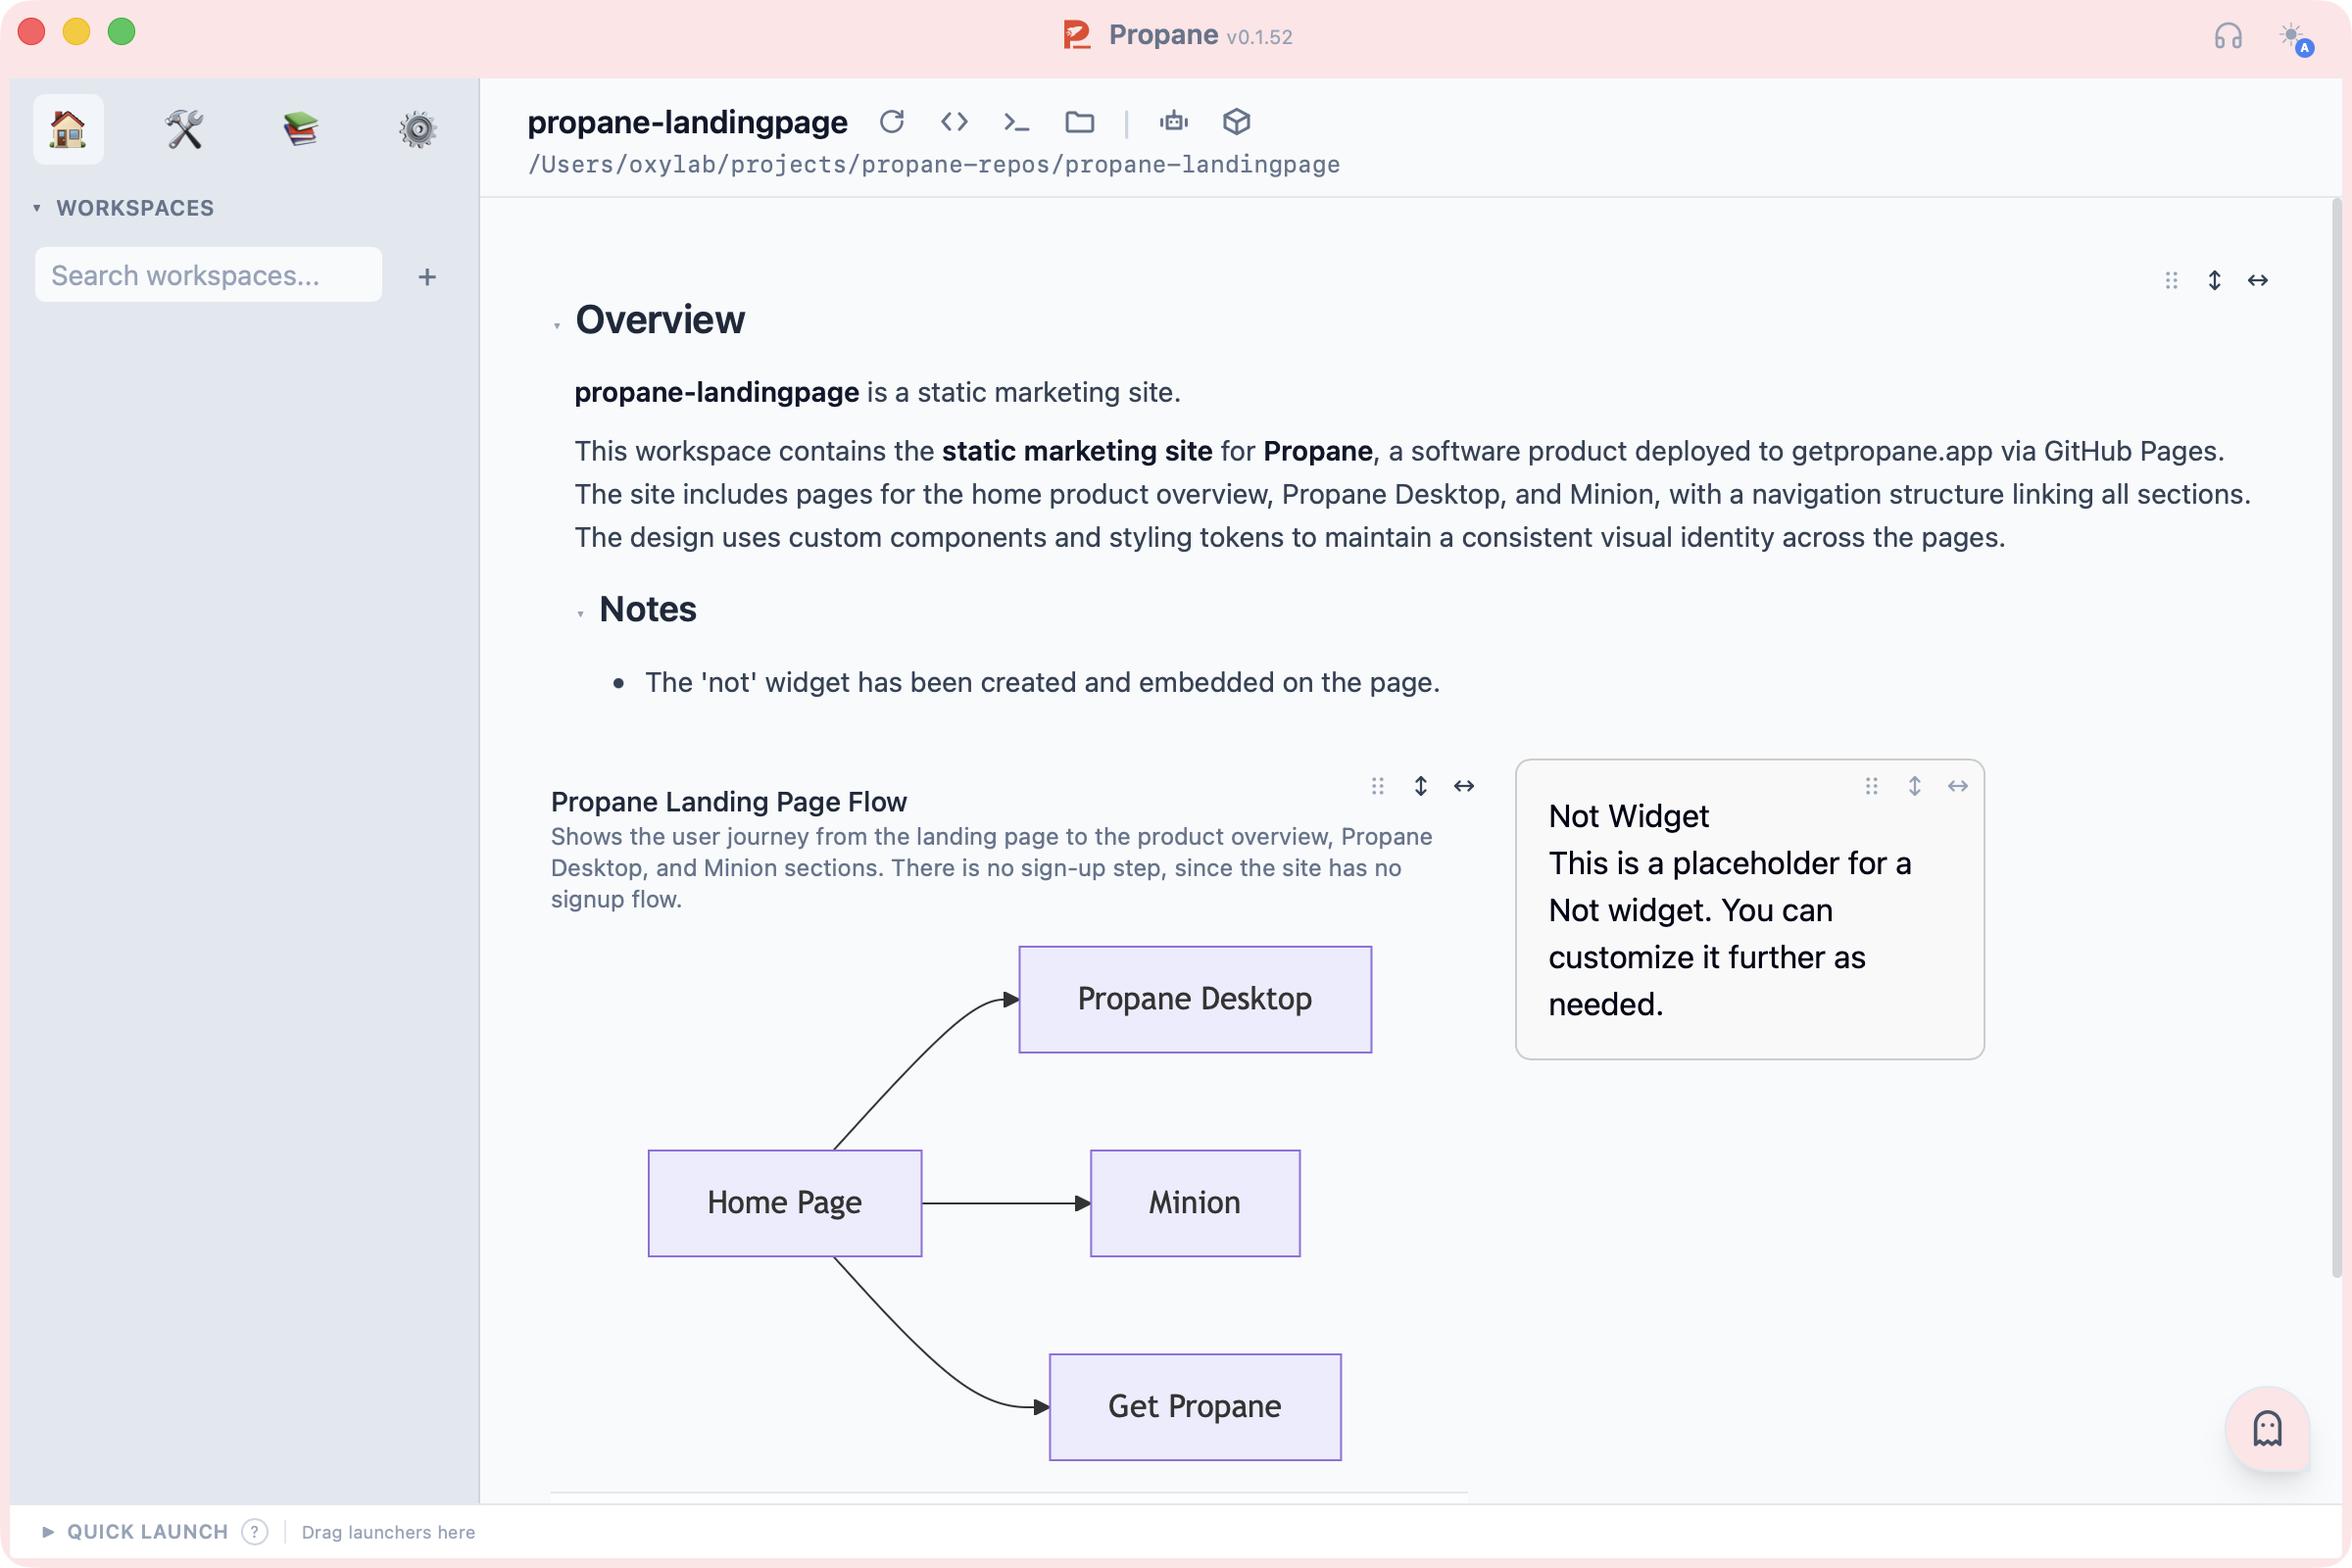
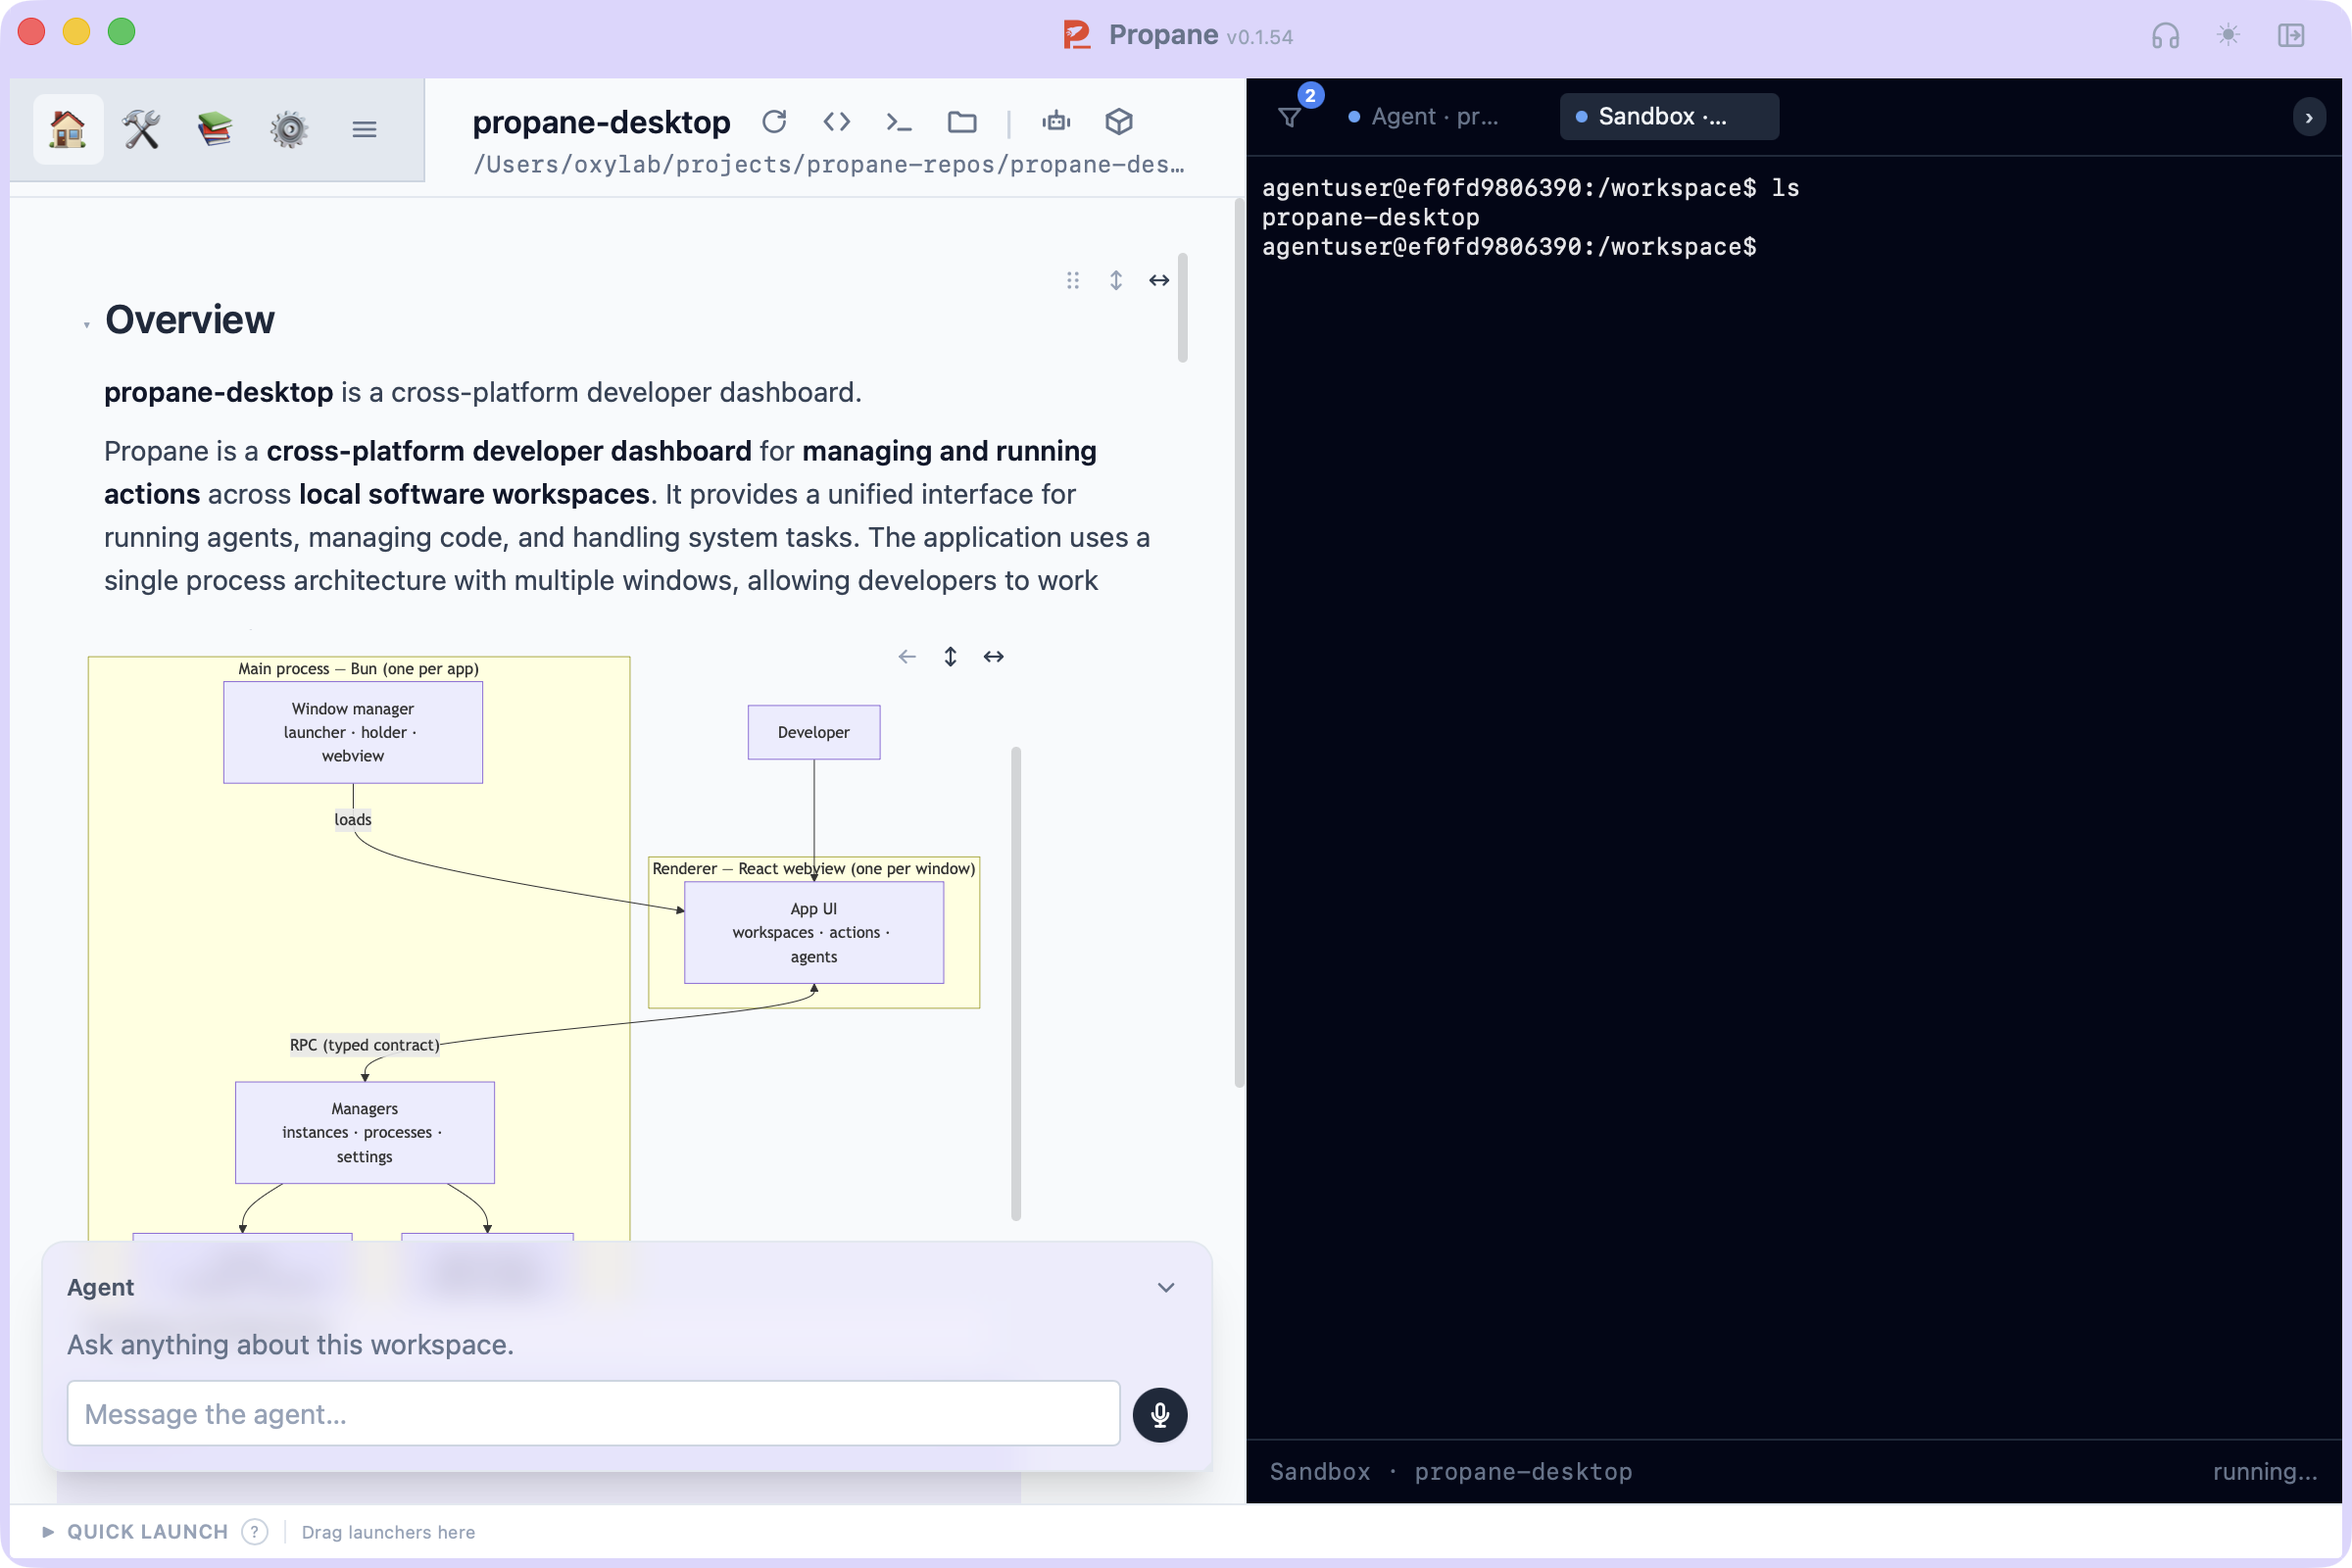
Update README pricing to suggested Free/Pro/Studio/Enterprise tiers
Replace the old Community/Pro/Studio/Enterprise model with the new prices:
Free $0 personal use, Pro $30/mo (300M token credits, private kbase
registry, publish apps, signed builds), Studio $255/mo for 25 users
($10/user), Enterprise $55/user/mo with own cloud license. Refresh the
feature breakdown, comparison table and open questions, and label the
model as suggested.

diff --git a/README.md b/README.md
@@ -16,80 +16,76 @@ Every page links to the others from the top nav and the footer. The pricing
 page was removed from the public site while the model below is still being
 decided.
 
-## Proposed pricing model (not published)
+## Suggested pricing model (not published)
 
-> The pricing page and all prices were **removed from the public pages** while
-the numbers are still being decided. This is the working model.
+> **Suggested.** The tiers below are an inferred working model, not a final
+> price list. The pricing page and all prices were **removed from the public
+> pages** while the numbers are still being decided.
 
 ### Tiers
 
 | Tier | Price | For |
 |------|-------|-----|
-| Community | $0 | Up to three computers and five devices, with a monthly hosted-token budget |
-| Pro | $15/mo | One person who wants Propane everywhere |
-| Studio | $29/user/mo | Teams that build tools together |
-| Enterprise | Custom | Organisations that run Propane themselves |
+| Free | $0 | Personal use |
+| Pro | $30/mo | One person who wants to publish and ship apps |
+| Studio | $255/mo · 25 users ($10/user) | Teams that build apps together |
+| Enterprise | $55/user/mo | Organisations that need their own cloud |
 
 ### Feature breakdown
 
-**Community — $0**
+**Free — $0**
 
-- 3 computers
+- Free for personal use
 - Unlimited local tool decks
 - Local models via Minion
-- Mobile remote access, 5 devices
-- 2M hosted tokens / month *(placeholder)*
-- Bonus tokens when you share compute
-- Community data helps train the models
+- Mobile remote access
 
-**Pro — $15/mo**
+**Pro — $30/mo**
 
-- Unlimited computers
-- 10M hosted tokens / month *(placeholder)*
-- Your data is never used for training
-- Priority email support
-- Mobile remote access, all devices
-- Cloud sync of tool decks
+- 300 million token credits
+- Private knowledge-base (kbase) registry
+- Publish apps
+- Export signed builds
 
-**Studio — $29/user/mo**
+**Studio — $255/mo**
 
-- Everything in Pro, plus:
-- Pooled team token budget
+- Everything in Pro, for 25 users
+- Additional users at $10/user
 - Shared workspaces
 - Team tool-deck library
 - SSO & audit log
 
-**Enterprise — Custom**
+**Enterprise — $55/user/mo**
 
 - Everything in Studio, plus:
+- Includes own cloud license
 - Self-hosted runtime
 - Private model gateway
 - SAML / SCIM & SLA
 
 ### Comparison
 
-| Feature | Community | Pro | Studio | Enterprise |
-|---------|-----------|-----|--------|------------|
-| Computers | 3 | Unlimited | Unlimited | Unlimited |
+| Feature | Free | Pro | Studio | Enterprise |
+|---------|------|-----|--------|------------|
+| Seats | 1 | 1 | 25 included ($10/user after) | Per user ($55/user/mo) |
 | Local tool decks | Unlimited | Unlimited | Unlimited | Unlimited |
-| Mobile remote access | 5 devices | All devices | All devices | All devices |
-| Hosted token budget | 2M / mo | 10M / mo | Pooled for the team | Custom |
-| Share compute, earn bonus tokens | Opt-in | Opt-in | Opt-in | Opt-in |
-| Data used to train models | Yes | No | No | No |
-| Cloud sync | — | Included | Included | Included |
+| Local models via Minion | Included | Included | Included | Included |
+| Hosted token credits | — | 300M | Pooled for the team (TBD) | Custom |
+| Private kbase registry | — | Included | Included | Included |
+| Publish apps | — | Included | Included | Included |
+| Export signed builds | — | Included | Included | Included |
 | Shared workspaces & team library | — | — | Included | Included |
 | SSO & audit log | — | — | Included | Included |
+| Own cloud license | — | — | — | Included |
 | Self-hosted runtime | — | — | — | Included |
 | Support | Community | Email | Priority | Dedicated |
 
-### Community compute pool
+### Token credits
 
-Every Community account includes a monthly budget of hosted tokens for models
-too large to run locally. The pool is refilled by volunteers — customers who
-opt in to share their computer's idle time and earn bonus tokens in return.
-Sharing is always pausable and never runs while the machine is in use.
-Community usage also helps train the models, which is part of what keeps it
-free; Pro and above never train on customer data.
+Paid plans include hosted token credits for models too large to run locally —
+Pro includes **300 million**. Free is local-first and has no hosted credit
+budget in this model. Credits and any compute-sharing arrangement on top of
+them are still open questions (see below).
 
 ### Separate pricing
 
@@ -98,9 +94,14 @@ and implementations). Minion stays open source. -->
 
 ### Open questions / placeholders
 
-- Token budgets (2M Community / 10M Pro) and the sharing bonus rate are placeholders.
-- Whether Community training is automatic or opt-in is undecided.
-- Studio's pooled token figure is unspecified.
+- Whether Free includes any hosted token credits, or is local-only.
+- Studio's pooled token figure, and whether the $10/user rate applies only to
+  seats beyond the 25 included.
+- Enterprise's minimum seat count and whether the own-cloud license is per
+  organisation or per user.
+- Whether the compute-sharing bonus still exists on top of token credits.
+- Whether any tier's data is used to train models (the old model said Free was,
+  Pro and above were not).
 
 ## How it is built
 
